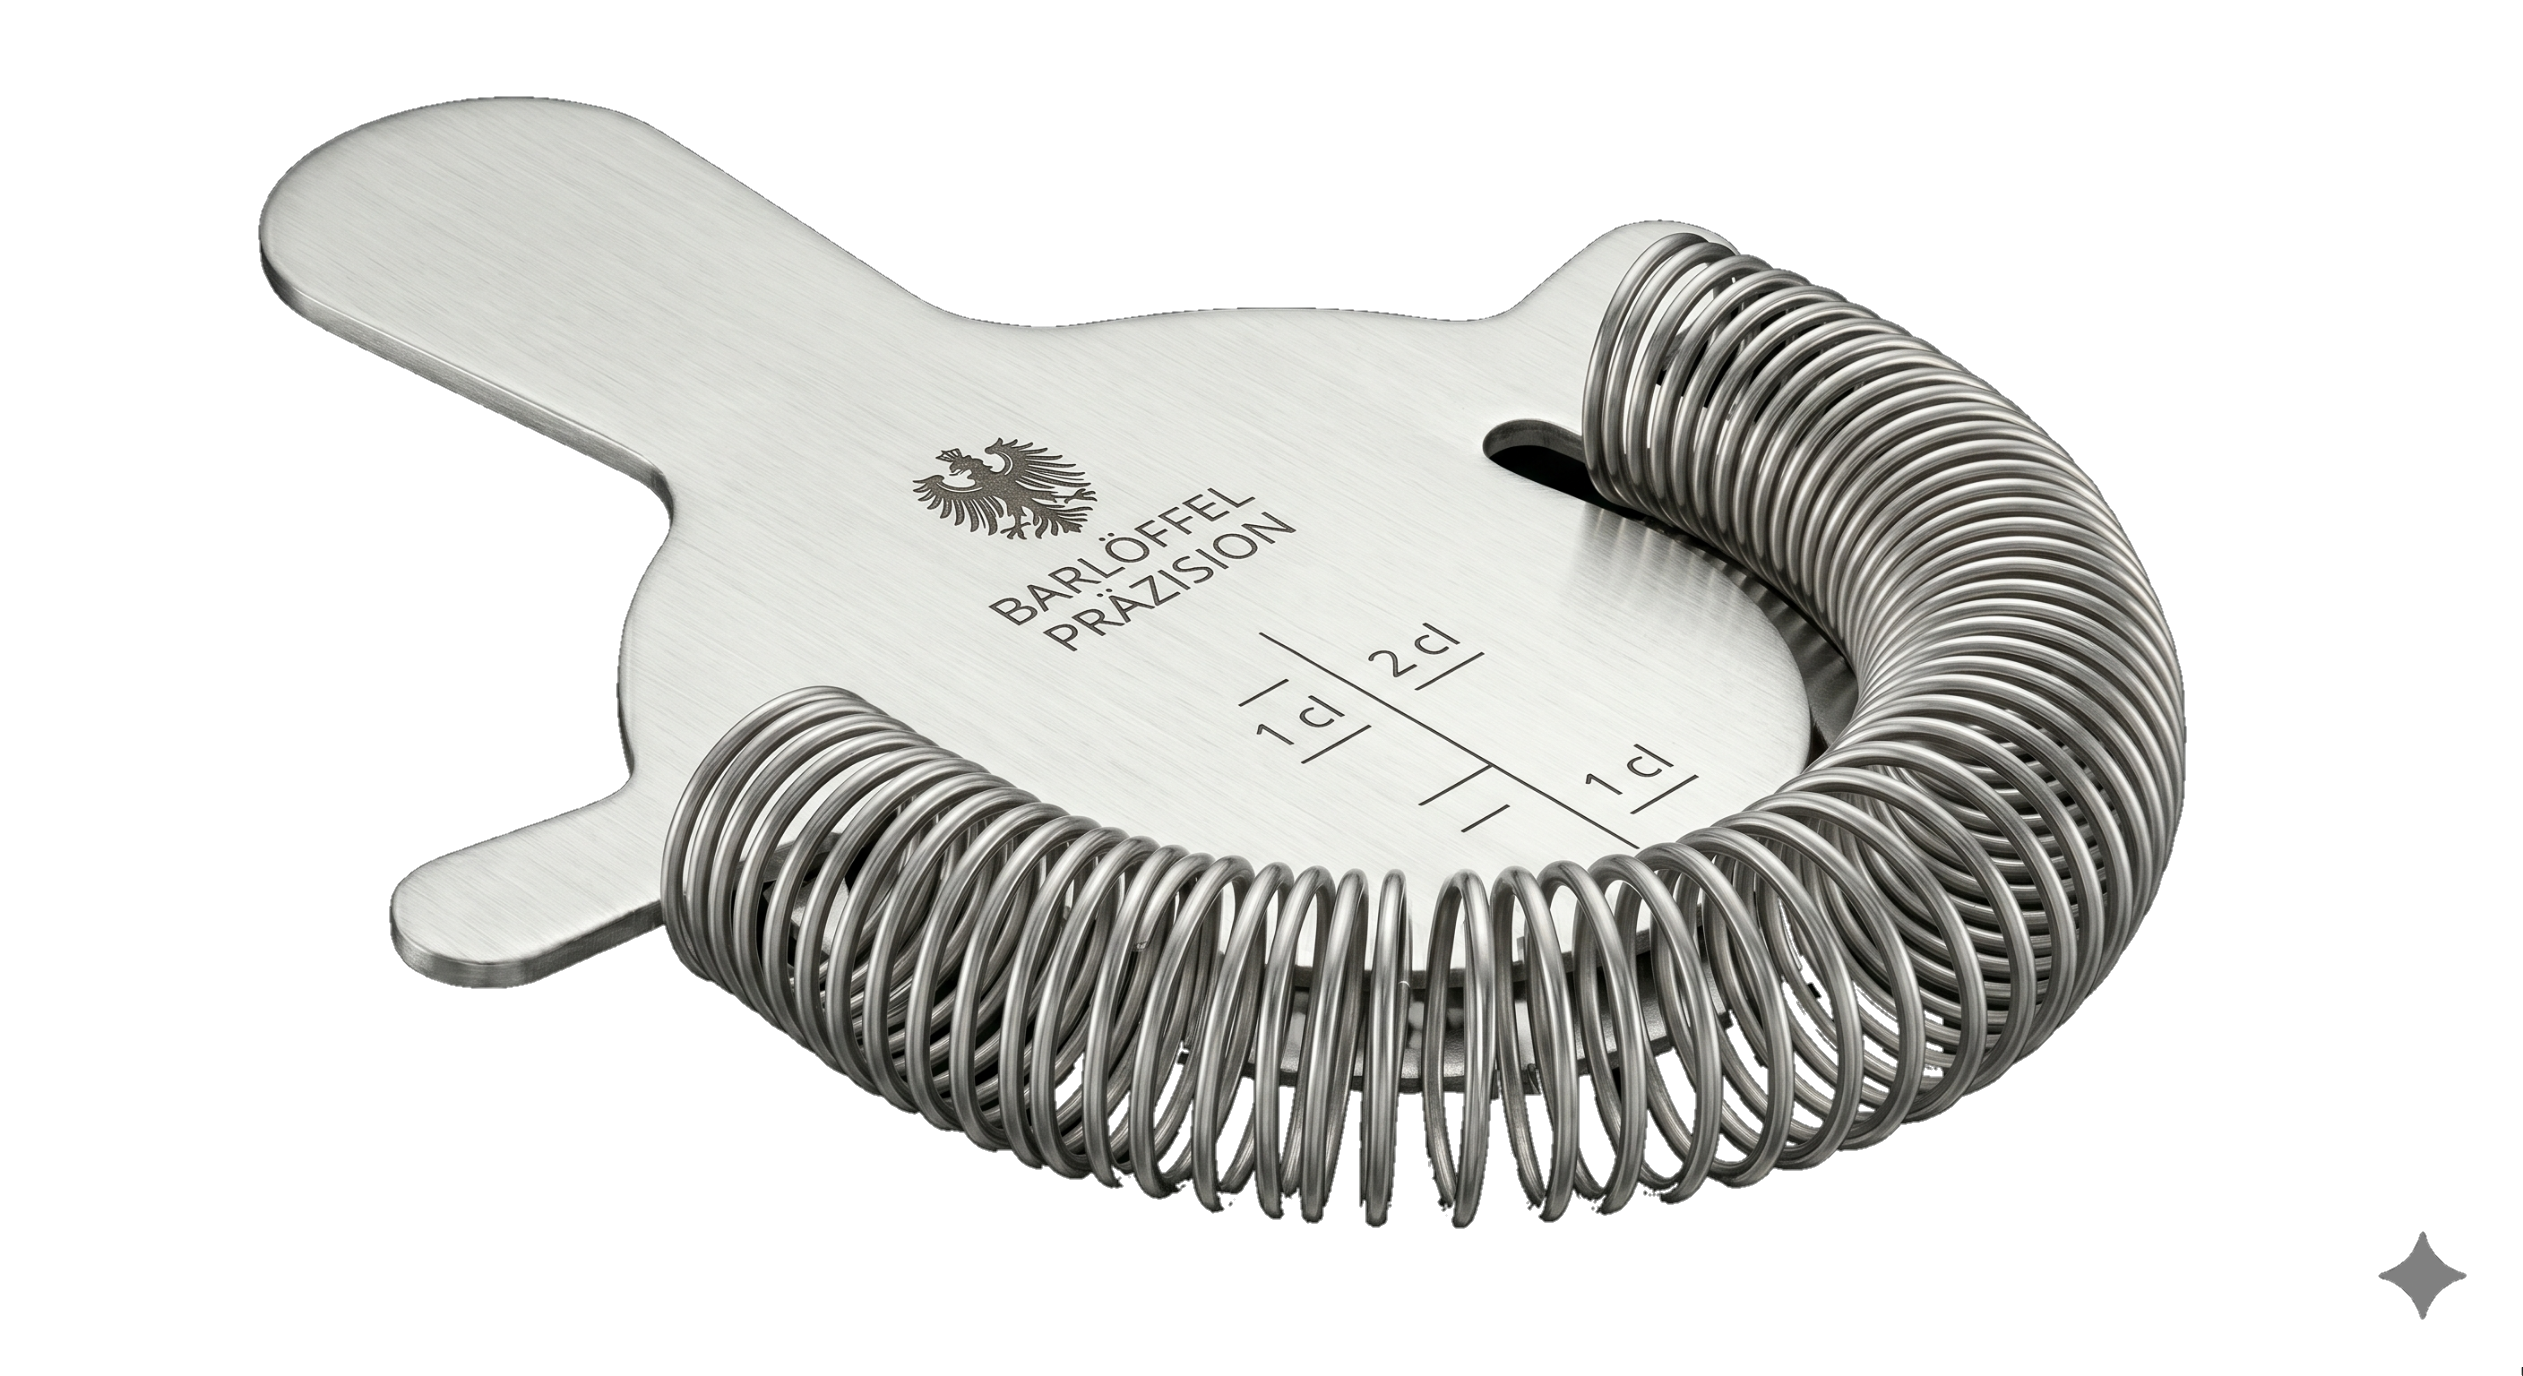
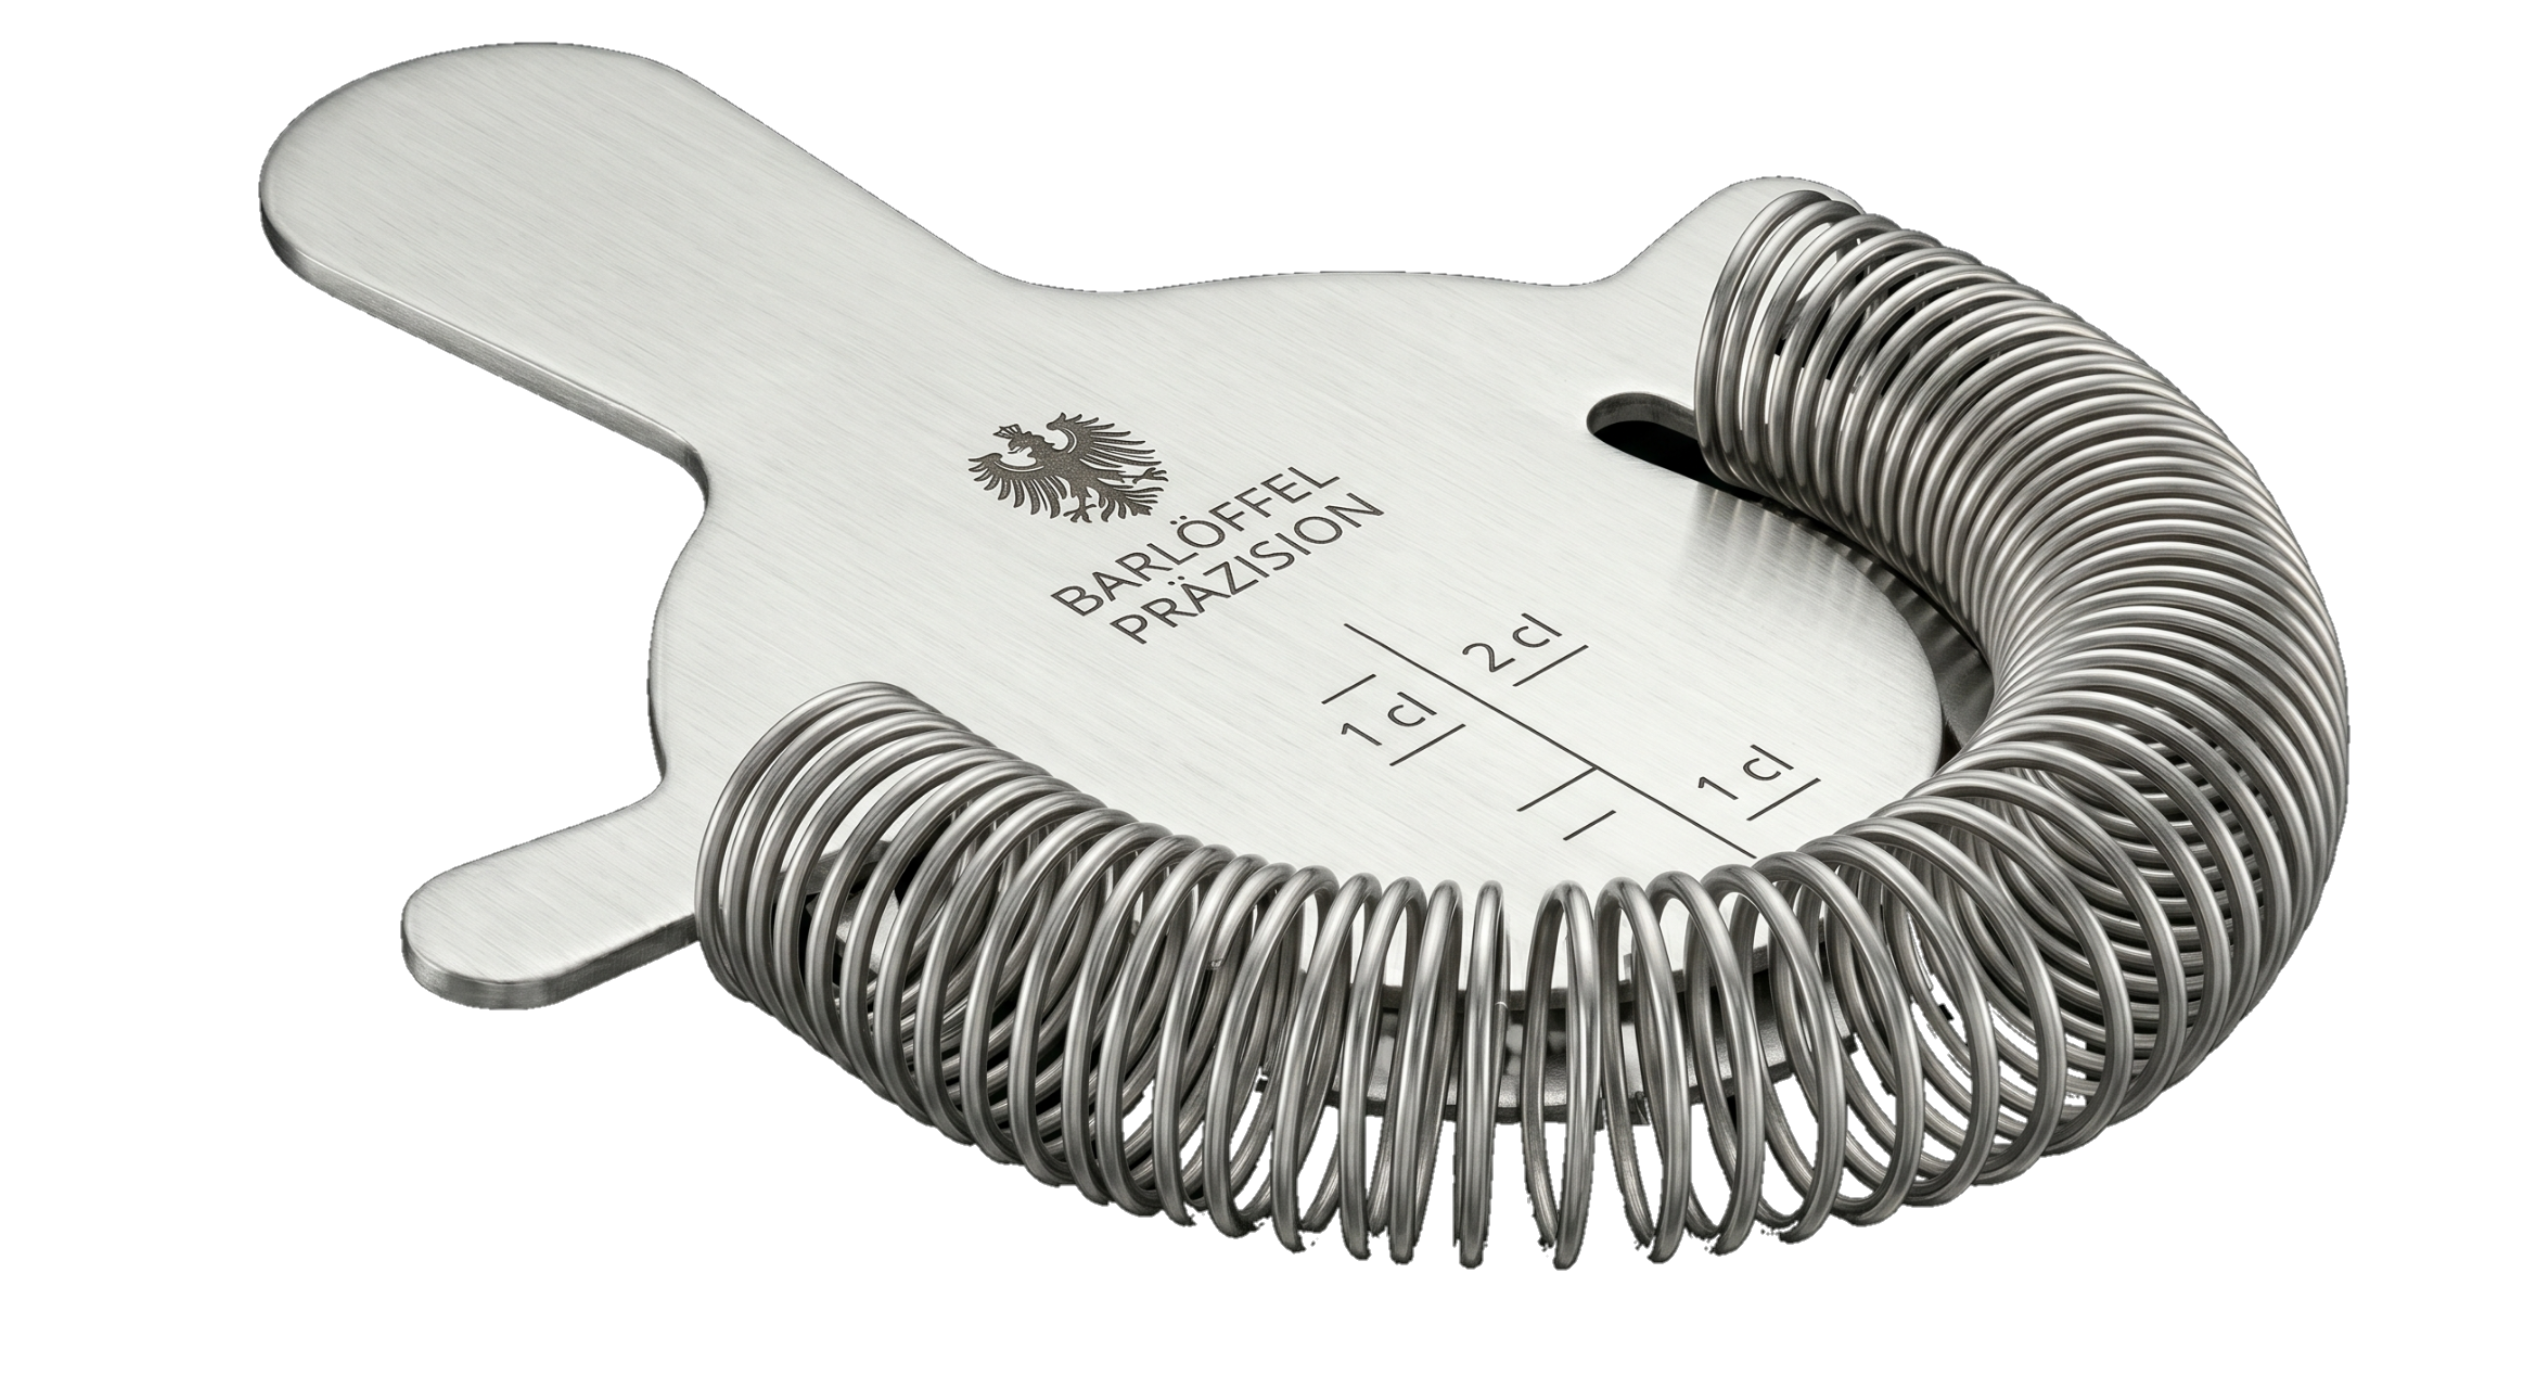
image edits

diff --git a/src/components/BarToolVisual.tsx b/src/components/BarToolVisual.tsx
@@ -28,21 +28,28 @@ export function BarToolVisual({
 }: BarToolVisualProps) {
   if (Platform.OS === 'web') {
     return (
-      <NextImage
-        src={BAR_TOOL_IMAGE_URIS[kind]}
-        alt=""
-        width={width}
-        height={height}
-        loading={loading}
-        sizes={`${width}px`}
+      <span
         style={{
           width,
           height,
           borderRadius: 18,
-          objectFit: 'contain',
           display: 'block',
+          overflow: 'hidden',
+          position: 'relative',
         }}
-      />
+      >
+        <NextImage
+          src={BAR_TOOL_IMAGE_URIS[kind]}
+          alt=""
+          fill
+          loading={loading}
+          sizes={`${width}px`}
+          style={{
+            borderRadius: 18,
+            objectFit: 'contain',
+          }}
+        />
+      </span>
     );
   }
 